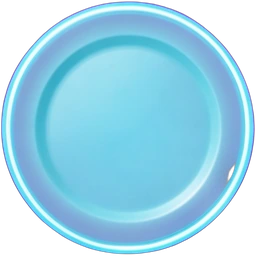
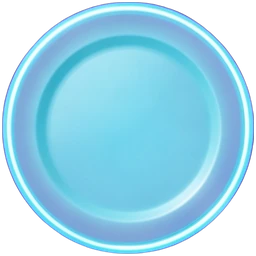
[Claude·MAC] Торты: порог сторожа тарелок пропускал ещё два дефекта — sweet/p3 без точек узора, bio/p0 с зубчиком; порог теперь ноль
ПОПРАВКА К ПРЕДЫДУЩЕМУ КОММИТУ. Сторож ставил 0,5 % «между худшей целой (0,38) и лучшей
испорченной (1,83)», а 0,38 у sweet/p3 я подписал как «впадины волнистого края» — не
посмотрев. На кадре тортов после починки в игре остался маленький чёрный зубчик внутри
обода первой тарелки (bio/p0, 0,13 %). Карта дыр по пикселям:
· sweet/p3 — ЧЕТЫРЕ выеденные розовые точки узора слева (розовый близок к пурпурному
  фону листа); 123 прозрачных пикселя;
· bio/p0 — зубчик у правого края внутри обода; 36 пикселей.
То есть порог 0,5 % пропускал два настоящих дефекта, а подпись в сторожа была выдумкой.

ЧИНКА — тем же способом, что bio/p1, с двумя уточнениями по замеру:
· круг, где цветовой ключ дополняет прозрачность модели, — по месту: у sweet/p3 дальняя
  дыра 0,909R, ближайшая впадина края 0,950R → круг 0,93R (первая попытка с R−2 залила
  пурпурной тенью впадины волнистого края — видно на сравнении, отброшена); у bio/p0
  дыра до 0,906R, край 0,994R → 0,95R;
· цвет — всегда из исходной клетки листа: у rembg полупрозрачные пиксели смешаны с
  чёрным, и залатанный зубчик bio/p0 оставался тёмным следом (видно на сравнении).
Итог: у обеих 0 прозрачных пикселей; пурпурных краевых 9 и 0 (было 170 и 150).

СТОРОЖ VER 2: дыра — прозрачный пиксель (альфа < 64) внутри круга тарелки, допуск —
НОЛЬ. Полупрозрачный пиксель сглаживания у впадины края — не дыра (у sweet/p0 такой
один, альфа 120, на 0,938R; при пороге альфы 128 он краснел). Все 72 тарелки — 0.
[…]

diff --git a/frontend/src/__tests__/cake-plates-have-no-holes.test.ts b/frontend/src/__tests__/cake-plates-have-no-holes.test.ts
@@ -1,7 +1,7 @@
 /**
  * @jest-environment node
  */
-/* psygames-gate-cake-plates-have-no-holes · VER 1 · 16.09.2026 */
+/* psygames-gate-cake-plates-have-no-holes · VER 2 · 16.09.2026 */
 /**
  * 🔴 У ТАРЕЛКИ НЕТ ДЫР — ЗАМЕР ПРОЗРАЧНОСТИ, А НЕ ВЗГЛЯД НА ЛИСТ.
  *
@@ -14,16 +14,25 @@
  * КАК МЕРИТСЯ. Круг — САМОЙ тарелки, а не кадра: он вписан в рамку непрозрачных
  * пикселей, радиус 0,94 от половины рамки. Первая редакция замера брала круг от
  * кадра и на вырезке с полями насчитала «26 % дыр» у целой тарелки — поля кадра
- * попали в круг. Дыра — пиксель с альфой < 128.
+ * попали в круг. Дыра — ПРОЗРАЧНЫЙ пиксель, альфа < 64: полупрозрачный пиксель сглаживания
+ * у впадины волнистого края — не дыра (у sweet/p0 такой один, альфа 120, на 0,938R).
  *
- * ПОРОГ. 0,5 % — по замеру этой же функцией 16.09.2026: у всех 72 тарелок после
- * починки 0,00…0,38 % (sweet/p3 0,38 — впадины волнистого края, bio/p0 0,13, у
- * остальных 70 — ноль), у двух испорченных было 1,83 % (bio/p1) и 8,61 % (bio/p4).
- * Порог лежит между худшей целой и лучшей испорченной.
+ * ПОРОГ — НОЛЬ. Первая редакция ставила 0,5 % «между худшей целой (0,38) и лучшей
+ * испорченной (1,83)» и подписала 0,38 у sweet/p3 как «впадины волнистого края». Карта
+ * дыр опровергла подпись: это ЧЕТЫРЕ выеденные розовые точки узора (розовый близок к
+ * пурпурному фону листа), а 0,13 у bio/p0 — зубчик внутри обода, видный в игре на кадре.
+ * То есть порог пропускал два настоящих дефекта. После починки у всех 72 тарелок —
+ * НОЛЬ прозрачных пикселей внутри круга (замер этой же функцией 16.09.2026); у старых
+ * файлов было 3595 (bio/p4), 759 (bio/p1), 123 (sweet/p3), 36 (bio/p0) — допуск не нужен.
  *
- * ЧЕМ ПОЧИНЕНО. bio/p4 — перерезка из cut3 (модель birefnet); bio/p1 — альфа модели,
- * а внутри круга тарелки дыру закрывает цветовой ключ (сам ключ оставлял пурпурную тень
- * за ободом, модель — выкус), плюс деспилл пурпура на краевых пикселях.
+ * ЧЕМ ПОЧИНЕНО (все четыре — из той же клетки листа `sorting-chat/art/cells`):
+ * · bio/p4 — третий заход нарезки (модель), 8,61 → 0;
+ * · bio/p1, bio/p0, sweet/p3 — прозрачность модели, а внутри круга тарелки (0,93…R−2) её
+ *   дополняет цветовой ключ (заливка от углов не достаёт до точек узора и до зубчика,
+ *   но оставляет пурпурную тень за ободом — поэтому круг и ограничен до впадин края);
+ *   ЦВЕТ — всегда из исходной клетки: у rembg полупрозрачные пиксели смешаны с чёрным, и
+ *   залатанный зубчик иначе оставался тёмным следом; на краевых пикселях снят пурпур.
+ *   1,83 → 0 · 0,13 → 0 · 0,38 → 0.
  */
 declare const __dirname: string;
 declare function require(id: string): any;
@@ -32,9 +41,10 @@ const path: { join(...p: string[]): string } = require('path');
 const sharp = require('sharp');
 
 const КОРЕНЬ = path.join(__dirname, '..', '..', 'assets', 'images', 'cake_plates');
-const ПОРОГ = 0.5;
+const ПРОЗРАЧНО = 64;
 
-async function дыр(файл: string): Promise<number> {
+/** Сколько прозрачных пикселей внутри круга тарелки и какая это доля. */
+async function дыр(файл: string): Promise<{ пикселей: number; доля: number }> {
   const { data, info } = await sharp(файл).ensureAlpha().raw().toBuffer({ resolveWithObject: true });
   const { width: w, height: h, channels: ch } = info;
   const альфа = (x: number, y: number) => data[(y * w + x) * ch + (ch - 1)];
@@ -44,7 +54,7 @@ async function дыр(файл: string): Promise<number> {
       if (альфа(x, y) >= 128) { if (x < x0) x0 = x; if (x > x1) x1 = x; if (y < y0) y0 = y; if (y > y1) y1 = y; }
     }
   }
-  if (x1 < 0) return 100;
+  if (x1 < 0) return { пикселей: 1, доля: 100 };
   const cx = (x0 + x1 + 1) / 2; const cy = (y0 + y1 + 1) / 2;
   const r = (Math.min(x1 - x0 + 1, y1 - y0 + 1) / 2) * 0.94;
   let всего = 0; let пусто = 0;
@@ -53,10 +63,10 @@ async function дыр(файл: string): Promise<number> {
       if (x < 0 || y < 0 || x >= w || y >= h) continue;
       if ((x + 0.5 - cx) ** 2 + (y + 0.5 - cy) ** 2 > r * r) continue;
       всего += 1;
-      if (альфа(x, y) < 128) пусто += 1;
+      if (альфа(x, y) < ПРОЗРАЧНО) пусто += 1;
     }
   }
-  return (100 * пусто) / всего;
+  return { пикселей: пусто, доля: (100 * пусто) / всего };
 }
 
 const тарелки = fs.readdirSync(КОРЕНЬ)
@@ -67,11 +77,11 @@ describe('у тарелок тортов нет дыр', () => {
     expect(тарелки.length).toBe(72);
   });
 
-  it(`🔴 внутри круга тарелки прозрачного не больше ${ПОРОГ} %`, async () => {
+  it('🔴 внутри круга тарелки нет ни одного прозрачного пикселя', async () => {
     const дырявые: string[] = [];
     for (const т of тарелки) {
       const д = await дыр(path.join(КОРЕНЬ, т));
-      if (д > ПОРОГ) дырявые.push(`${т}: ${д.toFixed(2)} %`);
+      if (д.пикселей > 0) дырявые.push(`${т}: ${д.пикселей} пикс. (${д.доля.toFixed(2)} %)`);
     }
     expect(дырявые).toEqual([]);
   }, 120_000);
